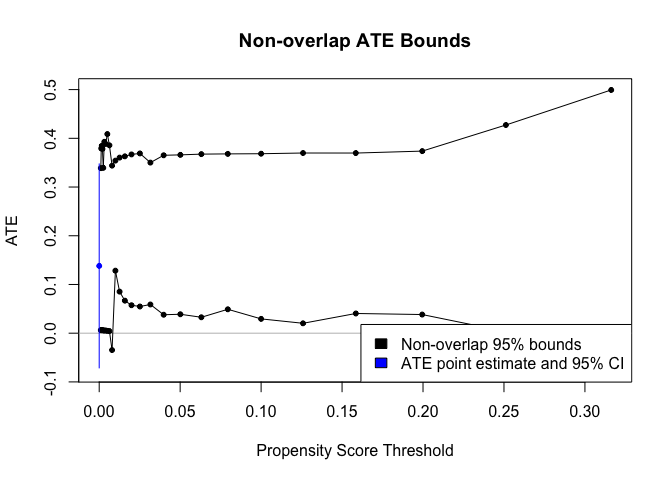
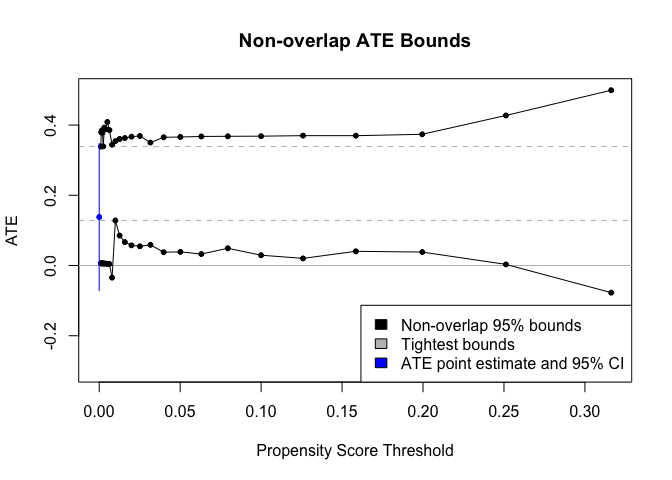
Updated README

diff --git a/README.md b/README.md
@@ -53,7 +53,7 @@ bounds <- ate_bounds(
   smoothness = c(0.005)
 )
 
-plot(bounds, point_estimate = TRUE, main = "Non-overlap ATE Bounds")
+plot(bounds, point_estimate = TRUE, main = "Non-overlap ATE Bounds", ylim = c(-0.3, 0.5))
 ```
 
 <img src="man/figures/README-example-1.png" width="70%" />
